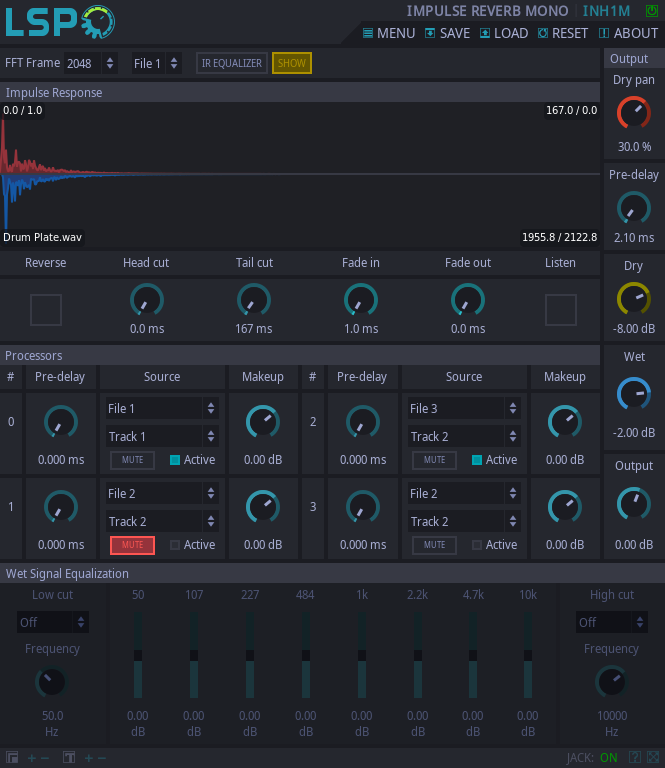
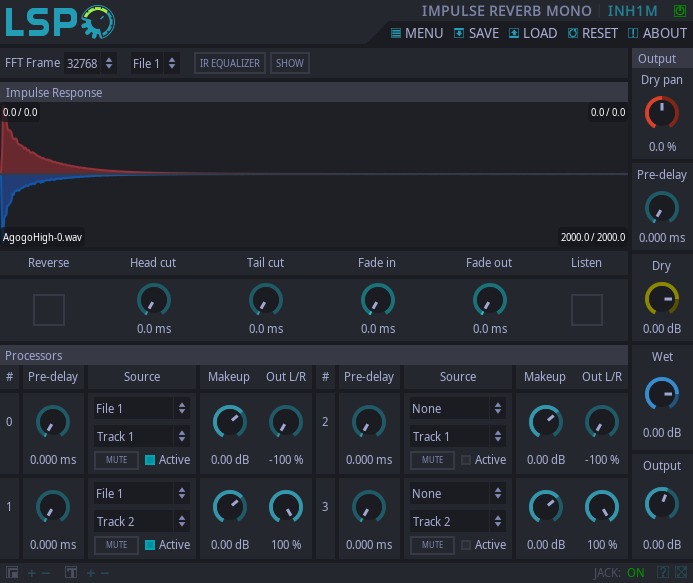
Several changes
* Updated default values for file selectors.
* Fixed missing output balance knobs in Impulse Reverb Mono plugin.

diff --git a/src/main/meta/impulse_reverb.cpp b/src/main/meta/impulse_reverb.cpp
@@ -126,8 +126,8 @@ namespace lsp
             METER("ifl" id, "Impulse length" label, U_MSEC, impulse_reverb_metadata::CONV_LENGTH), \
             MESH("ifd" id, "Impulse file contents" label, impulse_reverb_metadata::TRACKS_MAX, impulse_reverb_metadata::MESH_SIZE)
 
-        #define IR_CONVOLVER_MONO(id, label, track, mix) \
-            COMBO("csf" id, "Channel source file" label, 0, ir_files), \
+        #define IR_CONVOLVER_MONO(id, label, file, track, mix) \
+            COMBO("csf" id, "Channel source file" label, file, ir_files), \
             COMBO("cst" id, "Channel source track" label, track, ir_tracks), \
             AMP_GAIN100("mk" id, "Makeup gain" label, 1.0f), \
             SWITCH("cam" id, "Channel mute" label, 0.0f), \
@@ -135,9 +135,9 @@ namespace lsp
             CONTROL("pd" id, "Channel pre-delay" label, U_MSEC, impulse_reverb_metadata::PREDELAY), \
             PAN_CTL("com" id, "Channel Left/Right output mix" label, mix)
 
-        #define IR_CONVOLVER_STEREO(id, label, track, in_mix, out_mix) \
+        #define IR_CONVOLVER_STEREO(id, label, file, track, in_mix, out_mix) \
             PAN_CTL("cim" id, "Left/Right input mix" label, in_mix), \
-            IR_CONVOLVER_MONO(id, label, track, out_mix)
+            IR_CONVOLVER_MONO(id, label, file, track, out_mix)
 
         #define IR_EQ_BAND(id, freq)    \
             CONTROL("eq_" #id, "Band " freq "Hz gain", U_GAIN_AMP, impulse_reverb_metadata::BA)
@@ -171,10 +171,10 @@ namespace lsp
             IR_SAMPLE_FILE("1", " 1"),
             IR_SAMPLE_FILE("2", " 2"),
             IR_SAMPLE_FILE("3", " 3"),
-            IR_CONVOLVER_MONO("0", " 0", 0, -100.0f),
-            IR_CONVOLVER_MONO("1", " 1", 1, +100.0f),
-            IR_CONVOLVER_MONO("2", " 2", 0, -100.0f),
-            IR_CONVOLVER_MONO("3", " 3", 1, +100.0f),
+            IR_CONVOLVER_MONO("0", " 0", 1, 0, -100.0f),
+            IR_CONVOLVER_MONO("1", " 1", 1, 1, +100.0f),
+            IR_CONVOLVER_MONO("2", " 2", 0, 0, -100.0f),
+            IR_CONVOLVER_MONO("3", " 3", 0, 1, +100.0f),
 
             // Impulse response equalizer
             IR_EQUALIZER,
@@ -193,10 +193,10 @@ namespace lsp
             IR_SAMPLE_FILE("1", " 1"),
             IR_SAMPLE_FILE("2", " 2"),
             IR_SAMPLE_FILE("3", " 3"),
-            IR_CONVOLVER_STEREO("0", " 0", 0, -100.0f, -100.0f),
-            IR_CONVOLVER_STEREO("1", " 1", 1, -100.0f, +100.0f),
-            IR_CONVOLVER_STEREO("2", " 2", 2, +100.0f, -100.0f),
-            IR_CONVOLVER_STEREO("3", " 3", 3, +100.0f, +100.0f),
+            IR_CONVOLVER_STEREO("0", " 0", 1, 0, -100.0f, -100.0f),
+            IR_CONVOLVER_STEREO("1", " 1", 0, 1, -100.0f, +100.0f),
+            IR_CONVOLVER_STEREO("2", " 2", 0, 2, +100.0f, -100.0f),
+            IR_CONVOLVER_STEREO("3", " 3", 1, 1, +100.0f, +100.0f),
 
             // Impulse response equalizer
             IR_EQUALIZER,
